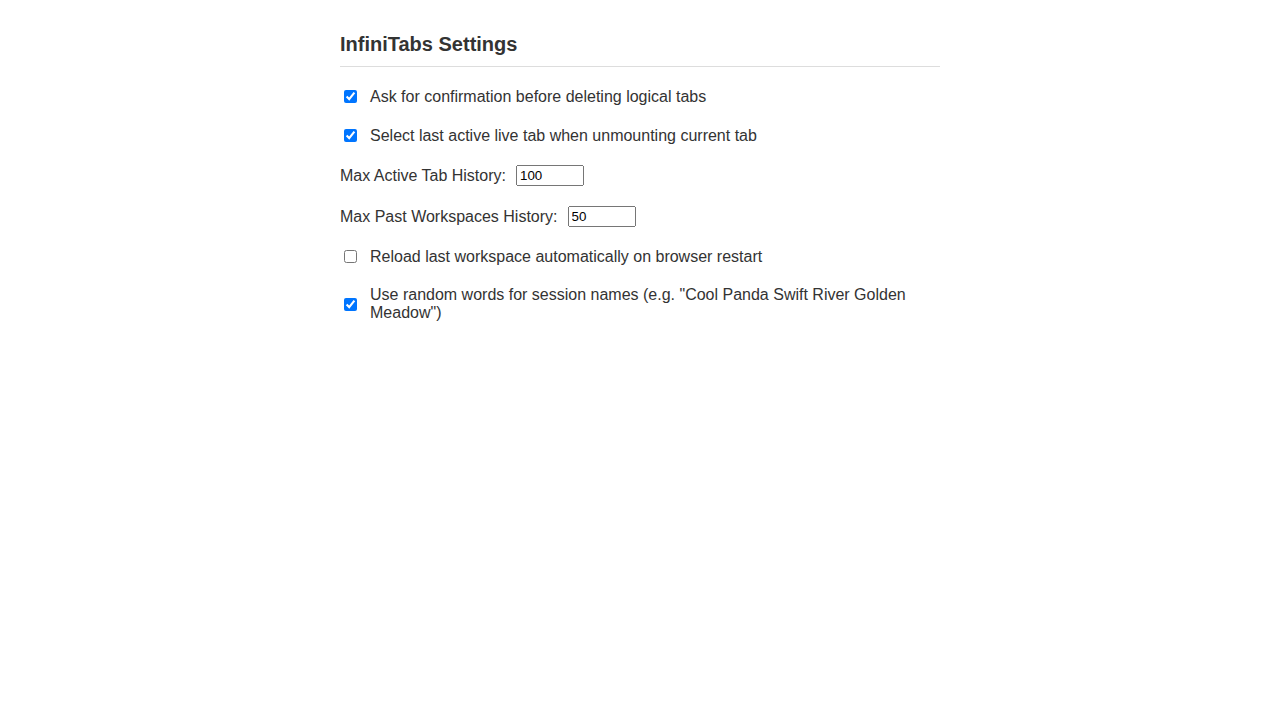
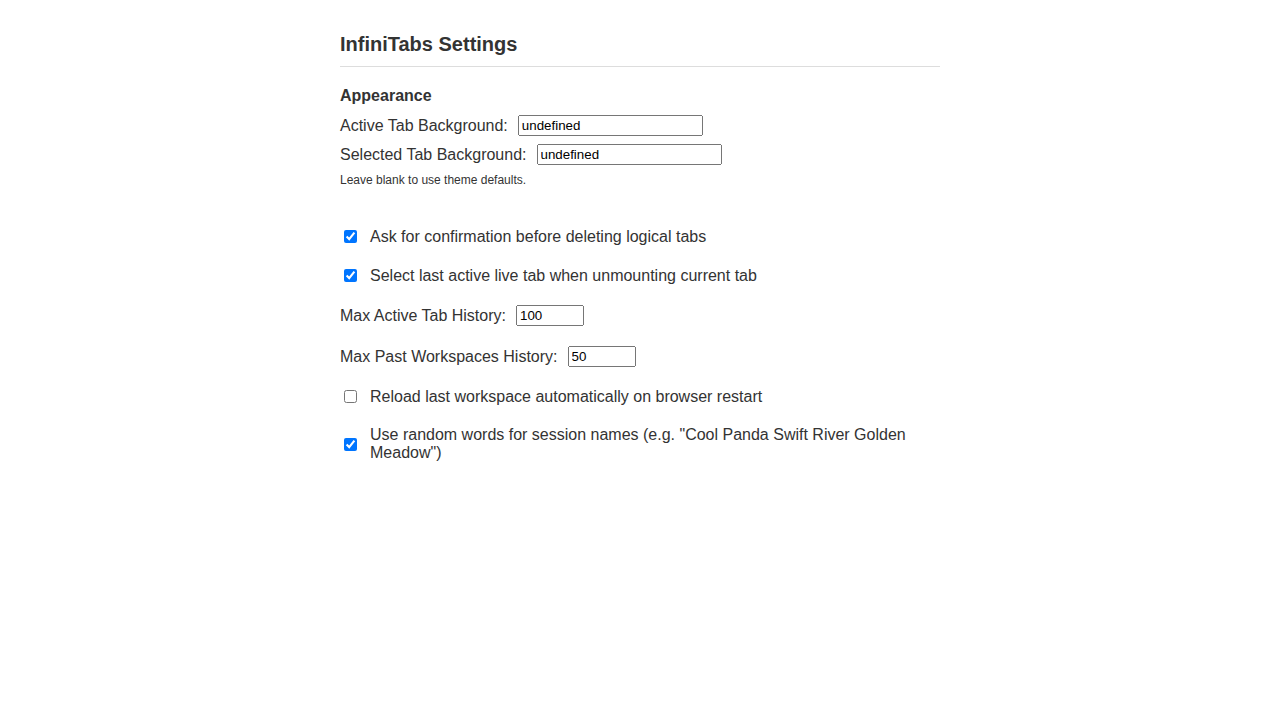
feat: Invert active/selected tab colors and add customization options and prioritize active highlight over selected highlight (#49)
* Invert active/selected tab colors and add customization options

- Inverted default colors: Active is now Blue, Selected is Gray.
- Added 'activeTabBg' and 'selectedTabBg' options in Options page.
- Refactored sidebar.js to apply custom colors from storage.
- Refactored styles.css to use CSS variables for selection states.

* fix: Add lightweight client-side constraints to reduce invalid input in src/options.html

Since these are freeform text fields, consider adding a hex pattern + spellcheck off to reduce invalid entries and typos while preserving “blank = defaults.”

Detected and fixed by @coderabbitai

* refactor: Extract duplicate CSS variable logic into a helper function for clearer, more maintainable code in src/sidebar.js

The current code repeats the same pattern twice for activeTabBg and selectedTabBg. Extract this into a helper function that also validates color values using CSS.supports() to ensure invalid values fall back to defaults gracefully.

Detected and fixed by @coderabbitai

* fix: Validate color strings before persisting to maintain data integrity in src/options.js

While the sidebar gracefully falls back to theme defaults if invalid values are applied, storing unvalidated CSS strings to storage is inconsistent with how numeric inputs are handled (lines 44–48). Consider normalizing with CSS.supports so only valid colors are persisted.

Detected and fixed by @coderabbitai
[…]

Changed region(s): [[0.25, 0.1222, 0.7188, 0.4583], [0.25, 0.4889, 0.7188, 0.6417]]

diff --git a/src/options.js b/src/options.js
@@ -5,6 +5,8 @@ const selectLastActiveCheckbox = document.getElementById('select-last-active-che
 const maxTabHistoryInput = document.getElementById('max-tab-history-input');
 const historySizeInput = document.getElementById('history-size-input');
 const reloadOnRestartCheckbox = document.getElementById('reload-on-restart-checkbox');
+const activeTabColorInput = document.getElementById('active-tab-color-input');
+const selectedTabColorInput = document.getElementById('selected-tab-color-input');
 const nameSessionsWithWordsCheckbox = document.getElementById('name-sessions-with-words-checkbox');
 const statusDiv = document.getElementById('status');
 
@@ -24,6 +26,8 @@ function restoreOptions() {
     maxTabHistory: DEFAULT_MAX_TAB_HISTORY,
     historySize: DEFAULT_HISTORY_SIZE,
     reloadOnRestart: DEFAULT_RELOAD_ON_RESTART,
+    activeTabBg: '',
+    selectedTabBg: '',
     nameSessionsWithWords: DEFAULT_NAME_SESSIONS_WITH_WORDS
   }, (items) => {
     confirmDeleteCheckbox.checked = items.confirmDeleteLogicalTab;
@@ -31,8 +35,16 @@ function restoreOptions() {
     maxTabHistoryInput.value = items.maxTabHistory;
     historySizeInput.value = items.historySize;
     reloadOnRestartCheckbox.checked = items.reloadOnRestart;
+    activeTabColorInput.value = items.activeTabBg;
+    selectedTabColorInput.value = items.selectedTabBg;
     nameSessionsWithWordsCheckbox.checked = items.nameSessionsWithWords;
   });
+}
+
+// Normalize color before save, ensures only valid CSS colors are saved
+function normalizeColor(value) {
+  const v = value.trim();
+  return v && CSS.supports('color', v) ? v : '';
 }
 
 // Save options
@@ -45,6 +57,8 @@ function saveOptions() {
     : DEFAULT_MAX_TAB_HISTORY;
   const historySize = parseInt(historySizeInput.value, 10) || 50;
   const reloadOnRestart = reloadOnRestartCheckbox.checked;
+  const activeTabBg = normalizeColor(activeTabColorInput.value);
+  const selectedTabBg = normalizeColor(selectedTabColorInput.value);
   const nameSessionsWithWords = nameSessionsWithWordsCheckbox.checked;
   chrome.storage.local.set({
     confirmDeleteLogicalTab: confirmDelete,
@@ -52,6 +66,8 @@ function saveOptions() {
     maxTabHistory: maxTabHistory,
     historySize: historySize,
     reloadOnRestart: reloadOnRestart,
+    activeTabBg: activeTabBg,
+    selectedTabBg: selectedTabBg,
     nameSessionsWithWords: nameSessionsWithWords
   }, () => {
     // Update status to let user know options were saved.
@@ -62,10 +78,24 @@ function saveOptions() {
   });
 }
 
+// Helper for debouncing
+function debounce(func, wait) {
+  let timeout;
+  return function(...args) {
+    const context = this;
+    clearTimeout(timeout);
+    timeout = setTimeout(() => func.apply(context, args), wait);
+  };
+}
+
+const debouncedSaveOptions = debounce(saveOptions, 250);
+
 document.addEventListener('DOMContentLoaded', restoreOptions);
 confirmDeleteCheckbox.addEventListener('change', saveOptions);
 selectLastActiveCheckbox.addEventListener('change', saveOptions);
 maxTabHistoryInput.addEventListener('change', saveOptions);
 historySizeInput.addEventListener('change', saveOptions);
 reloadOnRestartCheckbox.addEventListener('change', saveOptions);
+activeTabColorInput.addEventListener('input', debouncedSaveOptions);
+selectedTabColorInput.addEventListener('input', debouncedSaveOptions);
 nameSessionsWithWordsCheckbox.addEventListener('change', saveOptions);

diff --git a/src/styles.css b/src/styles.css
@@ -8,6 +8,8 @@
   --hover-bg: #eef3f8;
   --active-bg: #e6f7ff;
   --active-border: #1890ff;
+  --selected-bg: #f0f0f0;
+  --selected-border: #ccc;
   --group-bg: #fafafa;
   --group-text: #888;
   --btn-bg: #fff0f0;
@@ -37,8 +39,10 @@ body.dark-mode {
   --header-bg: #252526;
   --border-color: #3e3e42;
   --hover-bg: #2a2d2e;
-  --active-bg: #37373d;
-  --active-border: #0078d4;
+  --active-bg: #1e3a8a;
+  --active-border: #60a5fa;
+  --selected-bg: #37373d;
+  --selected-border: #555;
   --group-bg: #252526;
   --group-text: #aaa;
   --btn-bg: #3e2a2a;
@@ -286,12 +290,6 @@ body.dark-mode .top-level-tab.active {
   background-color: var(--hover-bg);
 }
 
-.tab-item.active-live {
-  font-weight: bold;
-  background-color: var(--active-bg);
-  border-left-color: var(--active-border);
-}
-
 .tab-item.live {
   /* Indicates it is open but not active */
   color: var(--text-color);
@@ -360,15 +358,14 @@ body.dark-mode .tab-delete-btn:hover {
 
 /* Drag and Drop & Selection Styles */
 .tab-item.selected {
-  background-color: #dbeafe;
-  /* Light blue */
-  border-left-color: #3b82f6;
+  background-color: var(--selected-bg);
+  border-left-color: var(--selected-border);
 }
 
-body.dark-mode .tab-item.selected {
-  background-color: #1e3a8a;
-  /* Dark blue */
-  border-left-color: #60a5fa;
+.tab-item.active-live {
+  font-weight: bold;
+  background-color: var(--active-bg);
+  border-left-color: var(--active-border);
 }
 
 .tab-item.dragging,

diff --git a/src/sidebar.js b/src/sidebar.js
@@ -108,6 +108,20 @@ async function init() {
     await refreshCurrentSession();
     await loadPastWorkspaces();
     await checkCrashStatus();
+    chrome.storage.local.get({ activeTabBg: '', selectedTabBg: '' }, (items) => {
+        applyUserColors(items.activeTabBg, items.selectedTabBg);
+    });
+
+    chrome.storage.onChanged.addListener((changes, area) => {
+        if (area === 'local') {
+            if (changes.activeTabBg || changes.selectedTabBg) {
+                applyUserColors(
+                    changes.activeTabBg ? changes.activeTabBg.newValue : undefined,
+                    changes.selectedTabBg ? changes.selectedTabBg.newValue : undefined
+                );
+            }
+        }
+    });
 
     // Top-level tabs logic
     const topLevelTabs = document.querySelectorAll('.top-level-tab');
@@ -145,6 +159,20 @@ function setTheme(dark) {
 
 function toggleTheme() {
     setTheme(!isDarkMode);
+}
+
+function applyUserColors(activeBg, selectedBg) {
+    if (activeBg !== undefined) applyColorVar('--active-bg', activeBg);
+    if (selectedBg !== undefined) applyColorVar('--selected-bg', selectedBg);
+}
+
+function applyColorVar(varName, value) {
+    const v = (value || '').trim();
+    if (v && CSS.supports('color', v)) {
+        document.body.style.setProperty(varName, v);
+    } else {
+        document.body.style.removeProperty(varName);
+    }
 }
 
 async function loadSessionsList() {

diff --git a/src/options.html b/src/options.html
@@ -43,6 +43,28 @@
   <h1>InfiniTabs Settings</h1>
 
   <div class="option-group">
+    <h2 style="font-size: 16px; margin: 0 0 10px 0;">Appearance</h2>
+    <div style="display: flex; flex-direction: column; gap: 8px;">
+      <label>
+        Active Tab Background:
+        <input type="text" id="active-tab-color-input" placeholder="e.g. `#e6f7ff`"
+               pattern="^#([0-9a-fA-F]{3}|[0-9a-fA-F]{6})$"
+               spellcheck="false" autocomplete="off">
+      </label>
+      <label>
+        Selected Tab Background:
+        <input type="text" id="selected-tab-color-input" placeholder="e.g. `#f0f0f0`"
+               pattern="^#([0-9a-fA-F]{3}|[0-9a-fA-F]{6})$"
+               spellcheck="false" autocomplete="off">
+      </label>
+      <div style="font-size: 12px; color: `#666`;">
+        Leave blank to use theme defaults.
+      </div>
+    </div>
+  </div>
+  <hr style="border: none; border-bottom: 1px solid `#ddd`; margin: 20px 0;">
+
+  <div class="option-group">
     <label>
       <input type="checkbox" id="confirm-delete-checkbox">
       Ask for confirmation before deleting logical tabs
